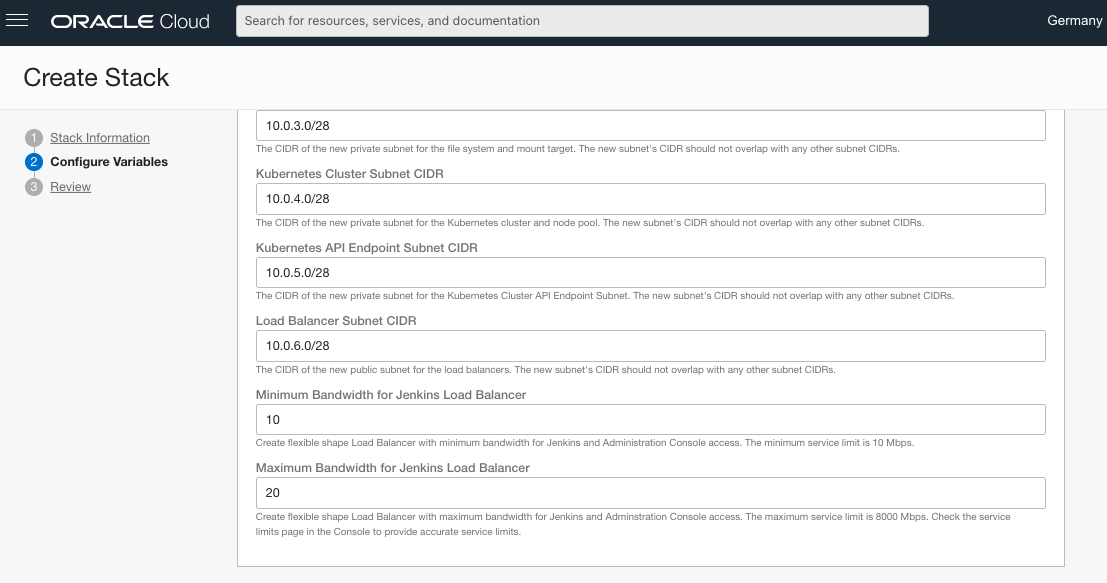
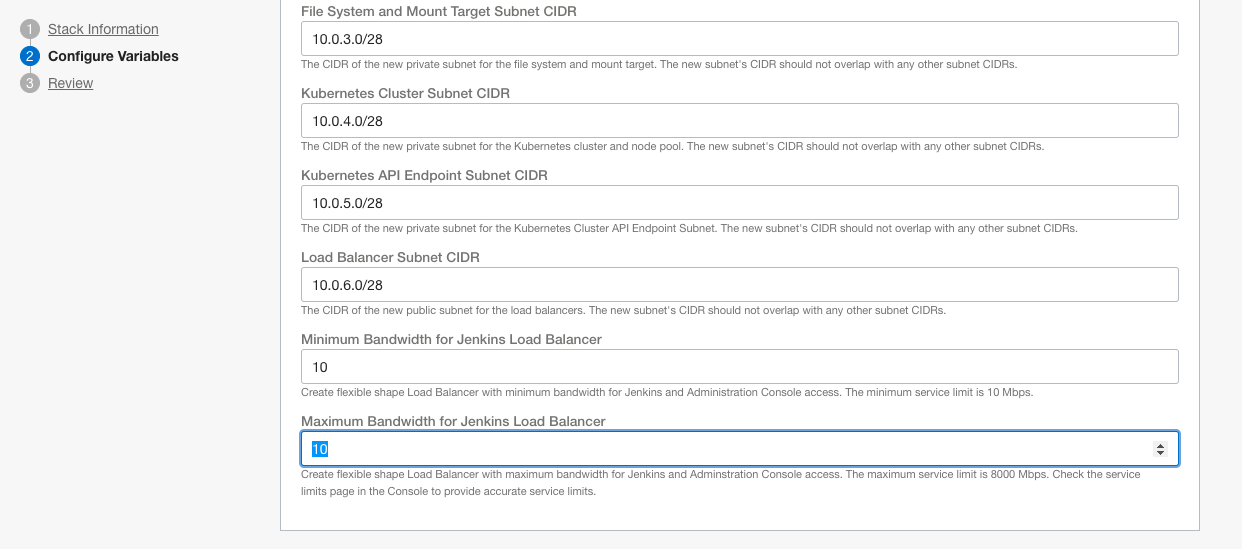
max LB to 10

diff --git a/AppDev/wls/ll-wls-for-oke-nonjrf/wlsforocionokepart2.md b/AppDev/wls/ll-wls-for-oke-nonjrf/wlsforocionokepart2.md
@@ -93,7 +93,7 @@ Continue with:
 - **Kubernetes API Endpoint Subnet CIDR**: keep default value
 - **Load Balancer Subnet CIDR**: keep default value
 - **Minimum Bandwidth for Jenkins Load Balancer**: *10 Mbps*
-- **Maximum Bandwidth for Jenkins  Load Balancer**: *20 Mbps*
+- **Maximum Bandwidth for Jenkins  Load Balancer**: *10 Mbps*
 
 ![image-20210428171936282](images/wlsforocionoke/image-105-2.png)
 
